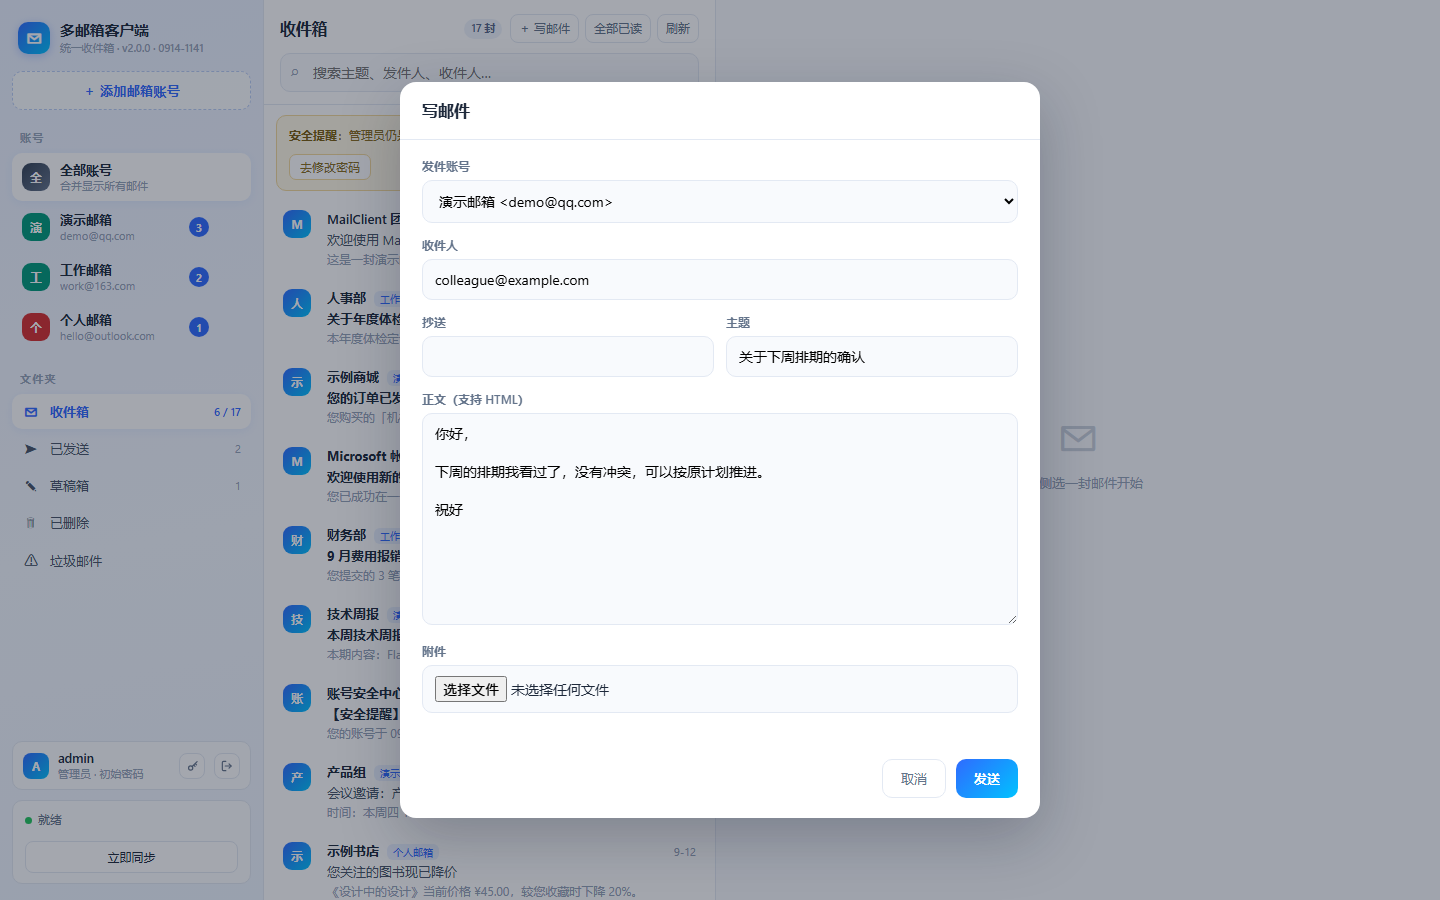
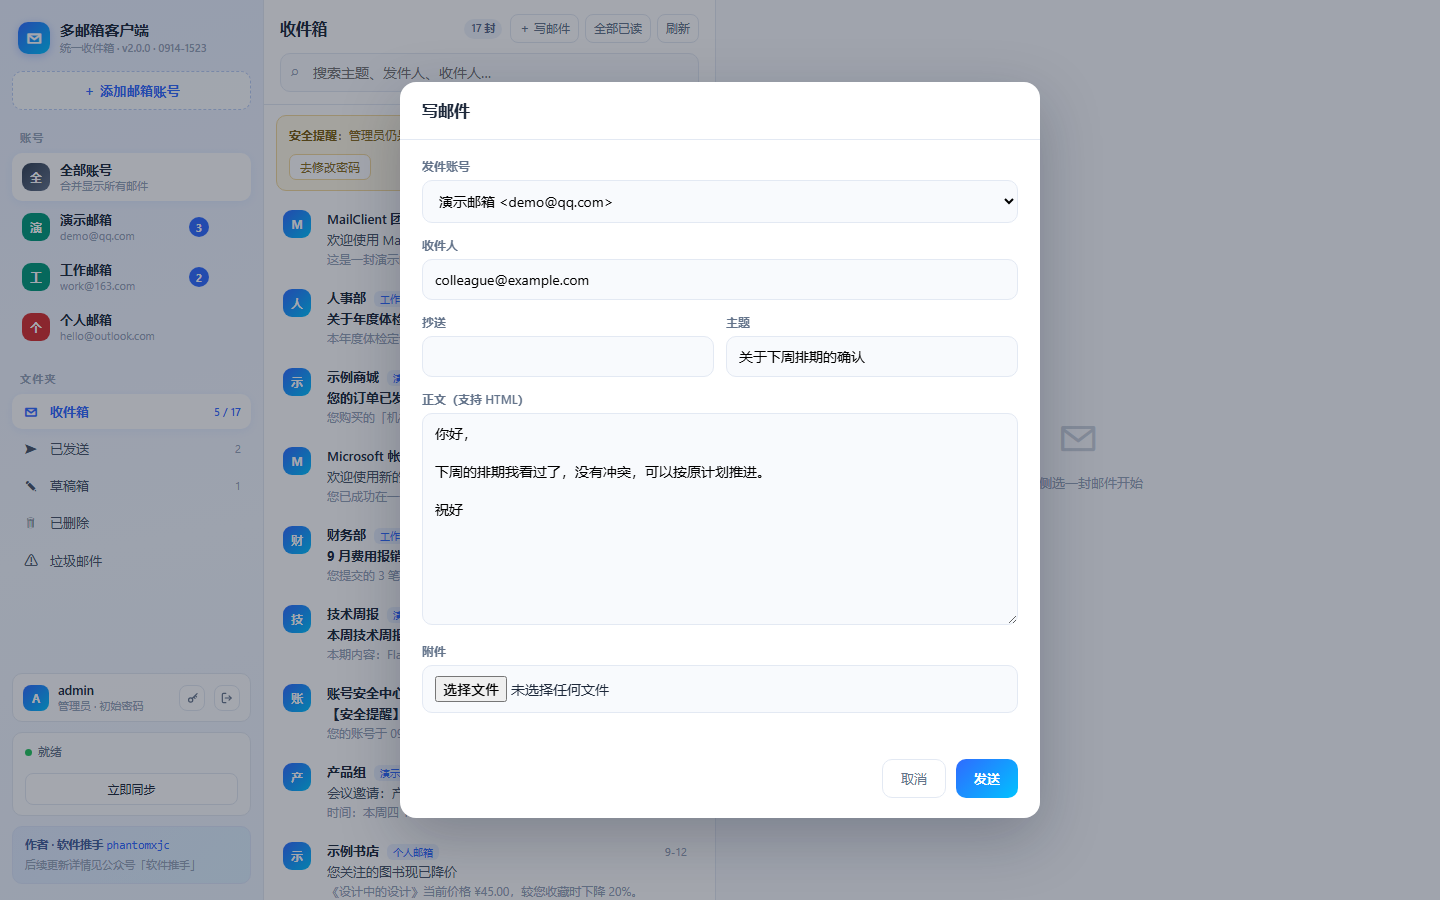
feat: 注入作者信息、修正截图，新增 FPK 自动发布工作流
作者信息（12 处）
- 登录页品牌区与页脚、主界面左下角卡片：作者 软件推手 / phantomxjc，
  并注明后续更新详情见公众号「软件推手」
- packaging/fnos/manifest：maintainer / distributor / desc / changelog
- packaging/fnos/app/ui/config：桌面图标描述
- Dockerfile 加 OCI LABEL，两份 compose 加 service labels，docker inspect 可反查
- cmd/install_callback 安装日志打印 3 行 banner
- 新增包内说明书 packaging/fnos/app/AUTHOR.txt

截图修正
- docs/ 下 11 张演示截图此前有 5 张拍错（MD5 重复：02/04/05/07/08 全拍成了
  主界面或写邮件弹窗），已用演示数据重拍，现为 10 张唯一画面
- 根因：Page.navigate 到仅 hash 不同的 URL 不会重载页面，深链状态残留；
  叠加强制重载参数拼在 hash 之后导致严格相等判断失配
- README 中的配图路径同步校正

新增 .github/workflows/release-fpk.yml
- 打 v* 标签自动构建 FPK 并挂到同名 Release，附 SHA256SUMS
- GitHub 机器上直连 Docker Hub 造离线基础镜像（本机脚本走的是国内加速站）
- 手动触发时改为存 artifact，不发 Release

其他
- 新增 docker-compose.ghcr.yml：不 build 直接拉官方 CI 镜像
- README 的 .fpk 安装段改为指向 Releases 固定下载链接
- 新增 .gitattributes：文本文件强制 LF，避免飞牛 cmd/ 脚本出现
  bad interpreter: /bin/bash^M
- .gitignore 补充 _shot*（无头截图用的自动登录辅助页含登录态）

diff --git a/static/css/app.css b/static/css/app.css
@@ -163,6 +163,19 @@ input, select, textarea { font-family: inherit; font-size: 14px; }
 }
 .btn-mini:hover { border-color: var(--brand); color: var(--brand); }
 
+/* 作者信息 */
+.author-box {
+  margin-top: 10px;
+  padding: 9px 12px;
+  border-radius: 10px;
+  background: linear-gradient(135deg, rgba(47, 107, 255, .07), rgba(0, 194, 255, .07));
+  border: 1px solid #dbe6fb;
+  line-height: 1.6;
+}
+.author-box .ab-name { font-size: 11.5px; font-weight: 600; color: #45619c; }
+.author-box .ab-id { font-family: Consolas, Monaco, monospace; font-weight: 500; color: var(--brand); }
+.author-box .ab-sub { margin-top: 2px; font-size: 11px; color: var(--faint); }
+
 /* ══════════ 中栏 ══════════ */
 .list {
   background: #fff; border-right: 1px solid var(--line);

diff --git a/templates/login.html b/templates/login.html
@@ -126,6 +126,7 @@ body {
     </div>
     <h1>MailClient</h1>
     <p class="tag">多邮箱统一收件箱 · Web 版</p>
+    <p class="tag" style="position:relative;margin-top:8px;padding-top:9px;border-top:1px solid rgba(255,255,255,.22);">作者 软件推手 · phantomxjc</p>
     <ul>
       <li>
         <span class="ic"><svg width="13" height="13" viewBox="0 0 24 24" fill="none" stroke="#fff"
@@ -183,6 +184,7 @@ body {
 
     <button class="submit" type="submit">登 录</button>
     <div class="foot">MailClient Web · v{{ version }} · {{ build }}</div>
+    <div class="foot" style="margin-top:6px;color:#a9b8cf;">作者 软件推手 · 更新详情见公众号「软件推手」</div>
   </div>
 </form>
 

diff --git a/templates/index.html b/templates/index.html
@@ -51,6 +51,11 @@
         <div class="line" id="syncLine"></div>
         <button class="btn-mini" id="btnSync">立即同步</button>
       </div>
+
+      <div class="author-box">
+        <div class="ab-name">作者 · 软件推手 <span class="ab-id">phantomxjc</span></div>
+        <div class="ab-sub">后续更新详情见公众号「软件推手」</div>
+      </div>
     </div>
   </aside>
 

diff --git a/README.md b/README.md
@@ -119,8 +119,19 @@ docker compose logs -f          # 看日志
 
 ### 飞牛 NAS：应用中心一键安装（.fpk，推荐）
 
-安装包在 `dist/mailclientweb.fpk`（约 **44 MB**，体积主要是包内自带的离线基础镜像，
+**安装包在 Releases 页面下载**（约 **44 MB**，体积主要是包内自带的离线基础镜像，
 原因见下面「为什么包里要带一个 44 MB 的镜像」），装好后和飞牛自带应用一样出现在桌面。
+
+- 所有版本：<https://github.com/phantomxjc/MailClientWeb/releases>
+- 永远下最新版（版本号变了链接也不用改）：
+
+  ```
+  https://github.com/phantomxjc/MailClientWeb/releases/latest/download/mailclientweb.fpk
+  ```
+
+自己从源码打包也可以（产物落在 `dist/mailclientweb.fpk`），见下面「自己重新打包 .fpk」。
+FPK 是 44 MB 二进制，**不进 git 仓库**——提交进去会永久留在历史里，之后想删都删不干净，
+所以它只作为 Release 附件分发。
 
 1. 把 `mailclientweb.fpk` 传到 NAS 上任意目录（比如 `/vol1/1000/`）
 2. 打开 **应用中心 → 右上角「设置」→ 手动安装应用**，选中这个文件
